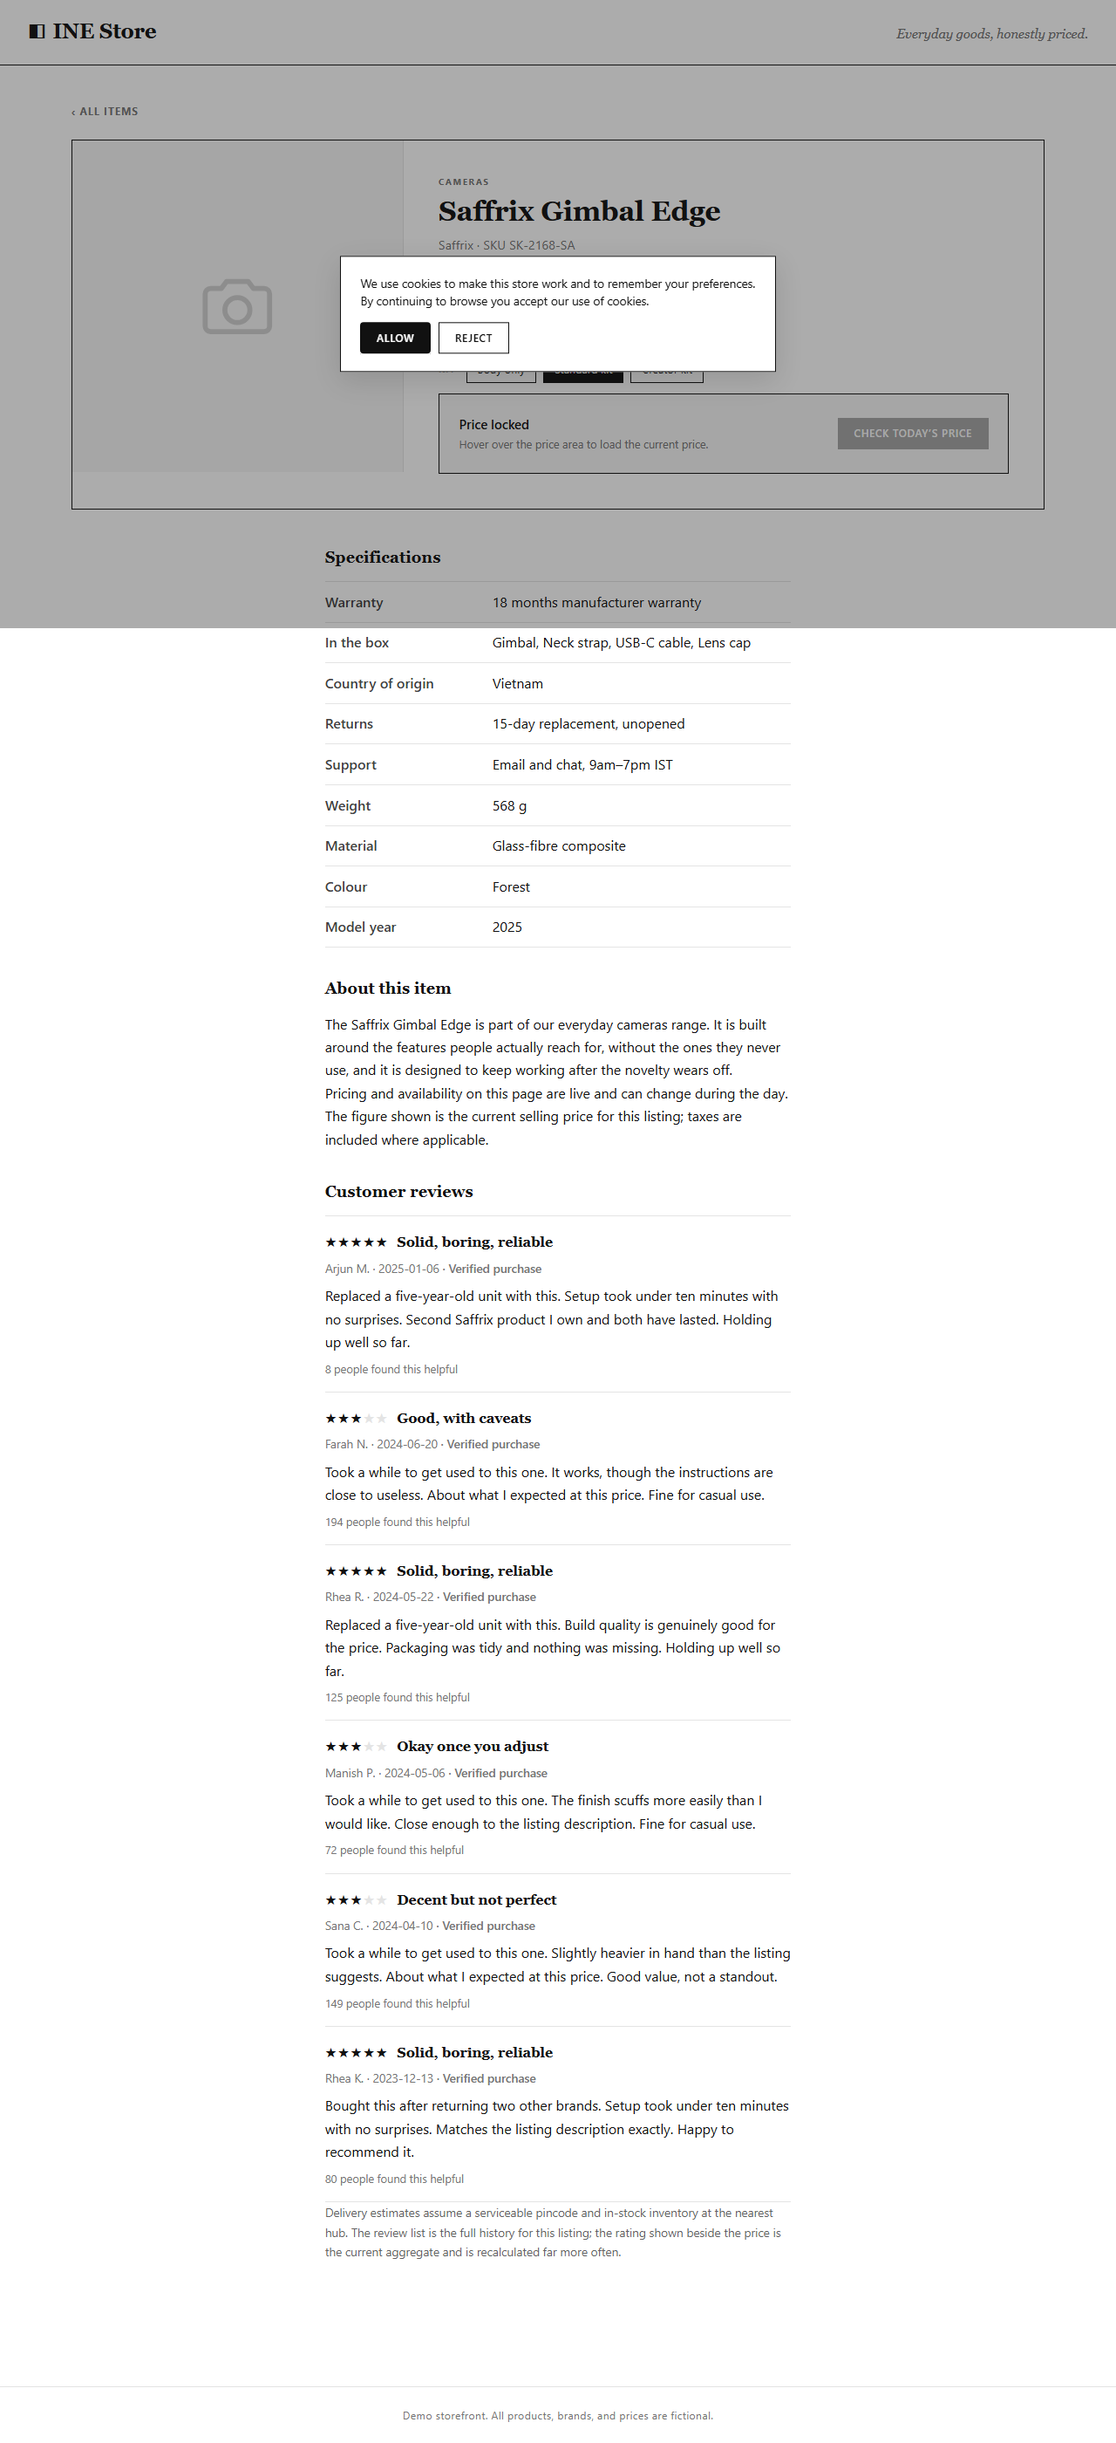
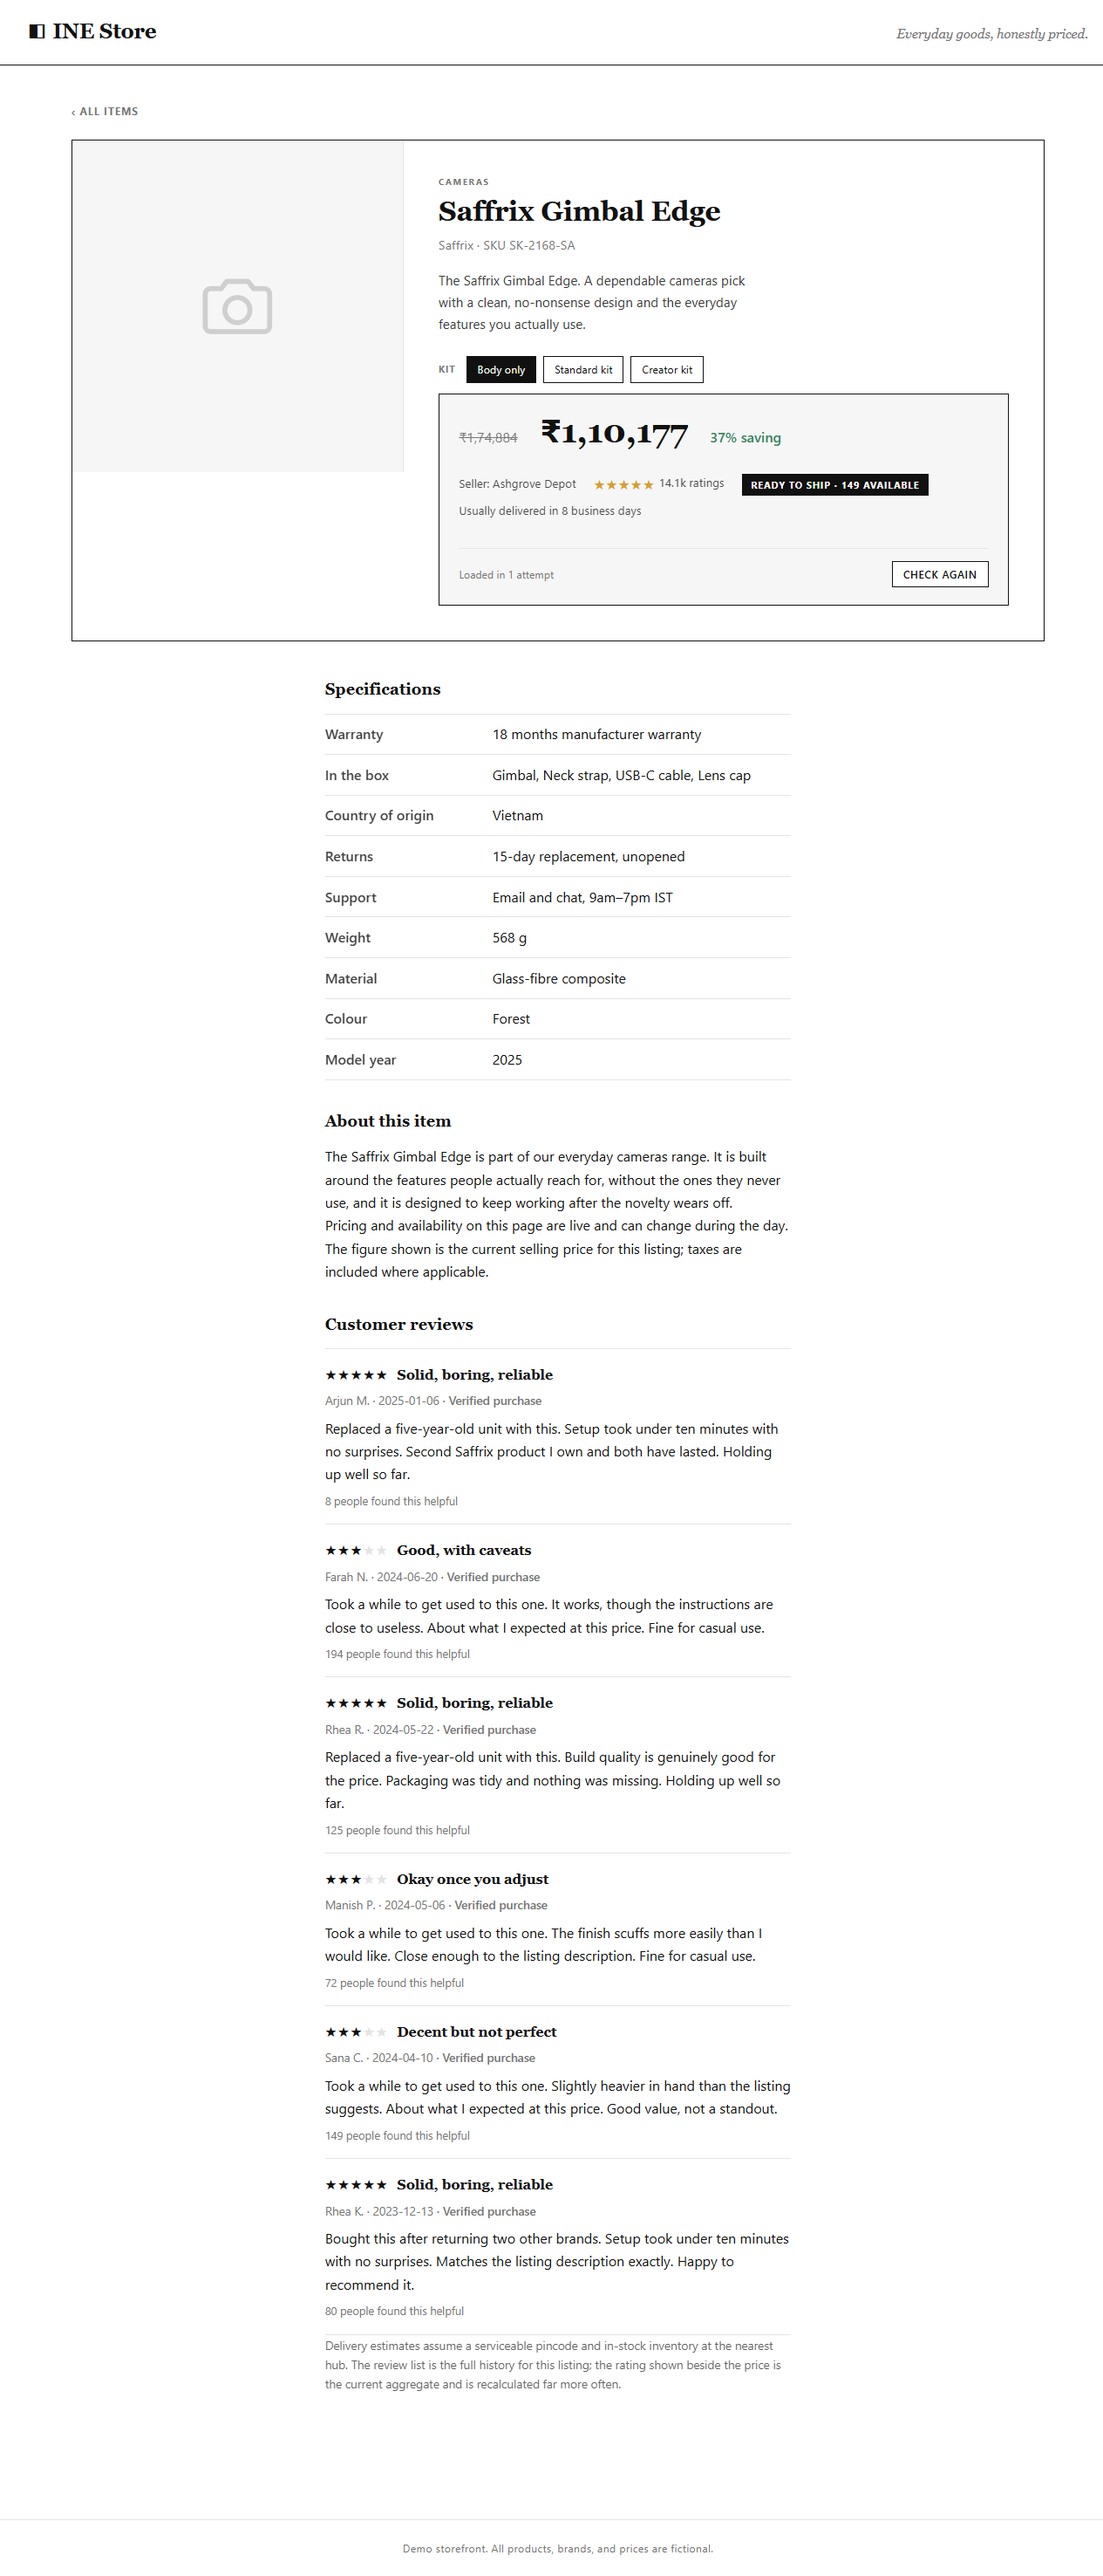
batch catalog fetch to avoid rate limiting, surface real errors

Changed region(s): [[0.0, 0.0, 1.0, 0.9321]]

diff --git a/backend/src/scraper/scrapeProduct.js b/backend/src/scraper/scrapeProduct.js
@@ -43,6 +43,18 @@ async function extractPriceAndStock(page) {
     const panel = document.querySelector('.offer-panel');
     if (!panel) return { priceText: null, stockText: null };
 
+    // Digits are sometimes split across sibling <span> chars and/or
+    // rendered as fullwidth Unicode (U+FF10-FF19) instead of ASCII --
+    // both defeat a naive \d-on-a-leaf-node scan. Normalize first.
+    function normalizeDigits(str) {
+      return str.replace(/[\uFF10-\uFF19]/g, (ch) =>
+        String.fromCharCode(ch.charCodeAt(0) - 0xFF10 + 0x30)
+      );
+    }
+    function normText(el) {
+      return normalizeDigits(el.textContent || '');
+    }
+
     const CURRENCY_RE = /[₹$]\s*[\d\s.,\u00A0\u200B]*\d/;
     const STOCK_RE = /in stock|out of stock|sold out|\d+\s*(units?|left|remaining)/i;
 
@@ -53,29 +65,23 @@ async function extractPriceAndStock(page) {
       if (el.closest('[aria-hidden="true"]')) return false;
       return true;
     }
-
     function isStruckThrough(el) {
-      const style = window.getComputedStyle(el);
-      return style.textDecorationLine.includes('line-through');
+      return window.getComputedStyle(el).textDecorationLine.includes('line-through');
     }
-
-    // Some variants show a secondary price line (e.g. "Member price ...")
-    // that is visible and not struck-through, so visibility alone isn't
-    // enough to disambiguate it from the real price. Across every variant
-    // observed, the actual price a shopper pays is consistently rendered
-    // bold/heavy-weight (a <b>/<strong> tag or font-weight >= 700), while
-    // secondary/decoy price lines are normal-weight. Prefer that.
     function isEmphasized(el) {
-      const style = window.getComputedStyle(el);
-      const weight = parseInt(style.fontWeight, 10) || 400;
+      const weight = parseInt(window.getComputedStyle(el).fontWeight, 10) || 400;
       return weight >= 700 || el.tagName === 'B' || el.tagName === 'STRONG';
     }
 
     const all = Array.from(panel.querySelectorAll('*'));
 
-    const priceCandidates = all.filter(
-      (el) => el.children.length === 0 && CURRENCY_RE.test(el.textContent || '')
+    // Match on full (descendant-inclusive) text, not just leaf nodes.
+    const matching = all.filter((el) => CURRENCY_RE.test(normText(el)));
+    // Keep only the innermost match per branch (drop wrapper ancestors).
+    const priceCandidates = matching.filter(
+      (el) => !matching.some((other) => other !== el && el.contains(other))
     );
+
     const visibleNonStruck = priceCandidates.filter(
       (el) => isVisible(el) && !isStruckThrough(el)
     );
@@ -88,21 +94,17 @@ async function extractPriceAndStock(page) {
       stockText = availEl.textContent.trim();
     } else {
       const stockCandidate = all.find(
-        (el) =>
-          el.children.length === 0 &&
-          STOCK_RE.test(el.textContent || '') &&
-          isVisible(el)
+        (el) => el.children.length === 0 && STOCK_RE.test(el.textContent || '') && isVisible(el)
       );
       if (stockCandidate) stockText = stockCandidate.textContent.trim();
     }
 
     return {
-      priceText: realPriceEl ? realPriceEl.textContent : null,
+      priceText: realPriceEl ? normalizeDigits(realPriceEl.textContent) : null,
       stockText,
     };
   });
 }
-
 async function scrapeProductOnce(browser, productId, optionLabel) {
   const context = await browser.newContext();
   await context.addInitScript(() => {
@@ -136,8 +138,10 @@ async function scrapeProductOnce(browser, productId, optionLabel) {
     // already starting inside the target area (this can differ between
     // headed and headless launches).
     await page.mouse.move(0, 0);
-    await page.mouse.move(box.x + box.width / 2, box.y + box.height / 2);
-
+await page.mouse.move(box.x + box.width / 2, box.y + box.height / 2, { steps: 15 });
+await page.waitForTimeout(150);
+// nudge slightly -- some listeners want a second distinct mousemove, not just entry
+await page.mouse.move(box.x + box.width / 2 + 3, box.y + box.height / 2 + 3, { steps: 5 });
     const revealButton = page.locator('.offer-panel button.ctl-main');
     try {
       await page.waitForFunction(

diff --git a/backend/src/scraper/Scheduledscrape.js b/backend/src/scraper/Scheduledscrape.js
@@ -1,0 +1,72 @@
+// Runs one full scrape pass over every actively tracked product, then
+// exits. Intended to be triggered every 2 hours by Windows Task Scheduler
+// (or any external scheduler) running on a machine where this scraper is
+// confirmed to work reliably -- see the design note for why the scrape
+// itself runs here rather than from the cloud-hosted backend: the target
+// site's reveal mechanism consistently fails from the deployment
+// platform's datacenter IP even with headless-detection, consent-overlay,
+// and price-extraction fixes all applied, while it works reliably from a
+// residential connection. The backend API (search/track/history/export)
+// remains fully deployed and reads from the same Supabase database this
+// script writes to.
+
+require('dotenv').config({ path: require('path').join(__dirname, '..', '..', '.env') });
+const { createClient } = require('@supabase/supabase-js');
+const { scrapeProductWithRetries } = require('./scrapeProduct');
+
+const supabase = createClient(
+  process.env.SUPABASE_URL,
+  process.env.SUPABASE_SERVICE_ROLE_KEY
+);
+
+async function main() {
+  console.log(`[${new Date().toISOString()}] Starting scheduled scrape run`);
+
+  const { data: products, error } = await supabase
+    .from('products')
+    .select('*')
+    .eq('is_active', true);
+
+  if (error) {
+    console.error('Failed to load tracked products:', error.message);
+    process.exit(1);
+  }
+
+  console.log(`Found ${products.length} active tracked product(s)`);
+
+  for (const product of products) {
+    const result = await scrapeProductWithRetries(
+      product.store_product_id,
+      product.option_label,
+      { headless: false }
+    );
+
+    const { error: insertErr } = await supabase.from('price_history').insert({
+      product_id: product.id,
+      price: result.price,
+      stock: result.stock,
+      outcome: result.outcome,
+      attempt_count: result.attemptCount,
+      error_message: result.error,
+    });
+
+    if (insertErr) {
+      console.error(
+        `Insert failed for ${product.product_name} (${product.option_label}):`,
+        insertErr.message
+      );
+    } else {
+      console.log(
+        `${product.product_name} (${product.option_label}) -> ${result.outcome} price=${result.price} stock=${result.stock}`
+      );
+    }
+  }
+
+  console.log(`[${new Date().toISOString()}] Scheduled scrape run complete`);
+  process.exit(0);
+}
+
+main().catch((err) => {
+  console.error('Fatal error in scheduled scrape:', err);
+  process.exit(1);
+});
